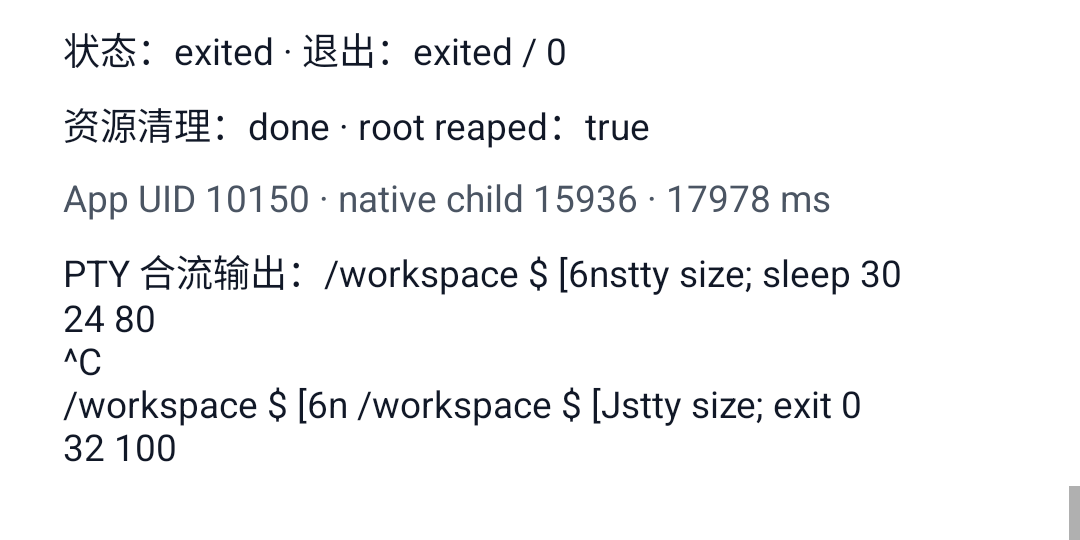
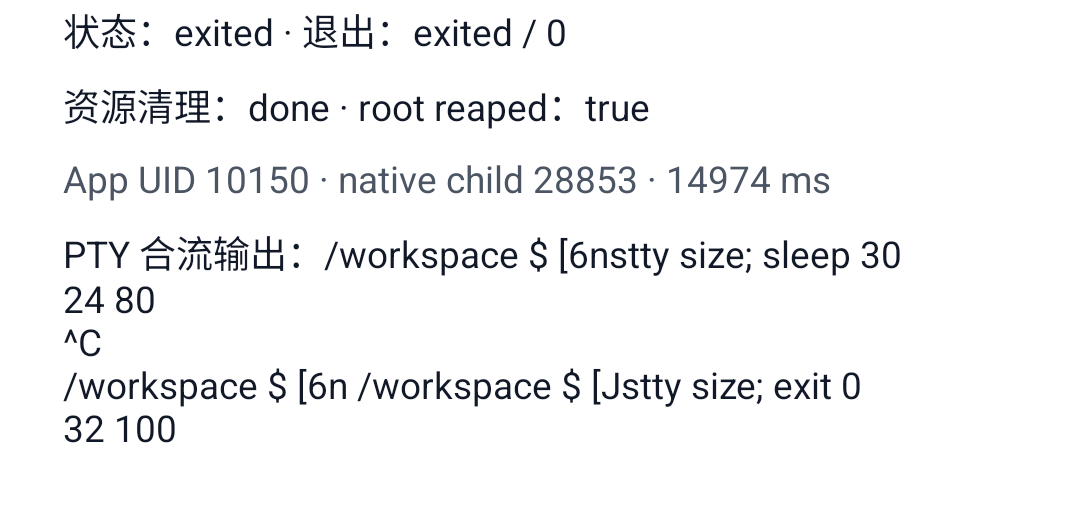
docs: verify standalone PTY product resource ownership
Record chapter-only input/resize/exit and actual120s owned resource restoration, separating Android graphics sync fences from unchanged non-graphics FD inventory. Preserve original total-FD assertion failures and chapter7 publication records.

Code generated by AI.

diff --git a/README.md b/README.md
@@ -2,9 +2,9 @@
 
 面向 React / TypeScript 开发者，学习让 Agent 在 Android 手机上操作 App、处理文件和执行命令。
 
-教程站已上线至第 6 章：第 1 章跑通 React → Kotlin，第 2 章取得 App 自有 ADB 启动入口，第 3 章完成 UID 2000 的 `app_process` 后端与 Binder 通信，第 4 章创建演示 VirtualDisplay 并验证 `displayId` 路由，第 5 章从同一显示读取截图和 UI 树、定向输入并重新观察结果。第 6 章在 App 私有目录准备 CSV、运行固定命令管道并检查输出与退出码；云真机专项与真实界面的正常演示分别记录，不代表所有异常分支都已在界面命中。[PR #11](https://github.com/kkkhs/pocketrun/pull/11) 已合并，`chapter-6` 源码快照已发布。后续能力按章节推进。
+教程站已上线至第 7 章：第 1 章跑通 React → Kotlin，第 2 章取得 App 自有 ADB 启动入口，第 3 章完成 UID 2000 的 `app_process` 后端与 Binder 通信，第 4 章创建演示 VirtualDisplay 并验证 `displayId` 路由，第 5 章从同一显示读取截图和 UI 树、定向输入并重新观察结果。第 6 章在 App 私有目录准备 CSV、运行固定命令管道并检查输出与退出码；云真机专项与真实界面的正常演示分别记录，不代表所有异常分支都已在界面命中。[PR #11](https://github.com/kkkhs/pocketrun/pull/11) 已合并，`chapter-6` 源码快照已发布。后续能力按章节推进。
 
-第 7 章已在任务专用本机模拟器完成最小 Alpine 的安装、映射与重复演示、12 项生命周期、7 个 App/tracer/guest/安装死亡恢复场景。仅含第 7 章能力的实际 App 界面也已通过；最终 CI/源码发布正在收口，各批次的实际结果见章节正文。
+第 7 章已在任务专用本机模拟器完成最小 Alpine 的安装、映射与重复演示、12 项生命周期、7 个 App/tracer/guest/安装死亡恢复场景。仅含第 7 章能力的实际 App 界面也已通过；[PR #12](https://github.com/kkkhs/pocketrun/pull/12)、main CI、Pages 与 [chapter-7 源码快照](https://github.com/kkkhs/pocketrun/releases/tag/chapter-7)均已完成。第 8 章的独立 PTY 与死亡恢复也已验收，发布继续推进。
 
 ## 阅读教程
 
@@ -15,7 +15,8 @@
 - [第 4 章：把 Demo App 放进虚拟屏](website/docs/chapter-4.md)
 - [第 5 章：看见界面，再操作它](website/docs/chapter-5.md)
 - [第 6 章：工作目录与命令管道（已发布）](https://kkkhs.github.io/pocketrun/chapter-6/) · [源码快照](https://github.com/kkkhs/pocketrun/releases/tag/chapter-6)
-- [第 7 章：PRoot 与最小 Alpine 环境（本地开发草稿，正常演示已实测，未全面验收/未发布）](website/docs/chapter-7.md)
+- [第 7 章：PRoot 与最小 Alpine 环境](https://kkkhs.github.io/pocketrun/chapter-7/) · [源码快照](https://github.com/kkkhs/pocketrun/releases/tag/chapter-7)
+- [第 8 章：真正的交互式 PTY（验收通过，发布中）](website/docs/chapter-8.md)
 - [章节源码快照](https://github.com/kkkhs/pocketrun/releases)
 - [参考：系统概览](https://kkkhs.github.io/pocketrun/architecture/)
 - [参考：运行与发布教程站](https://kkkhs.github.io/pocketrun/chapter-0/)
